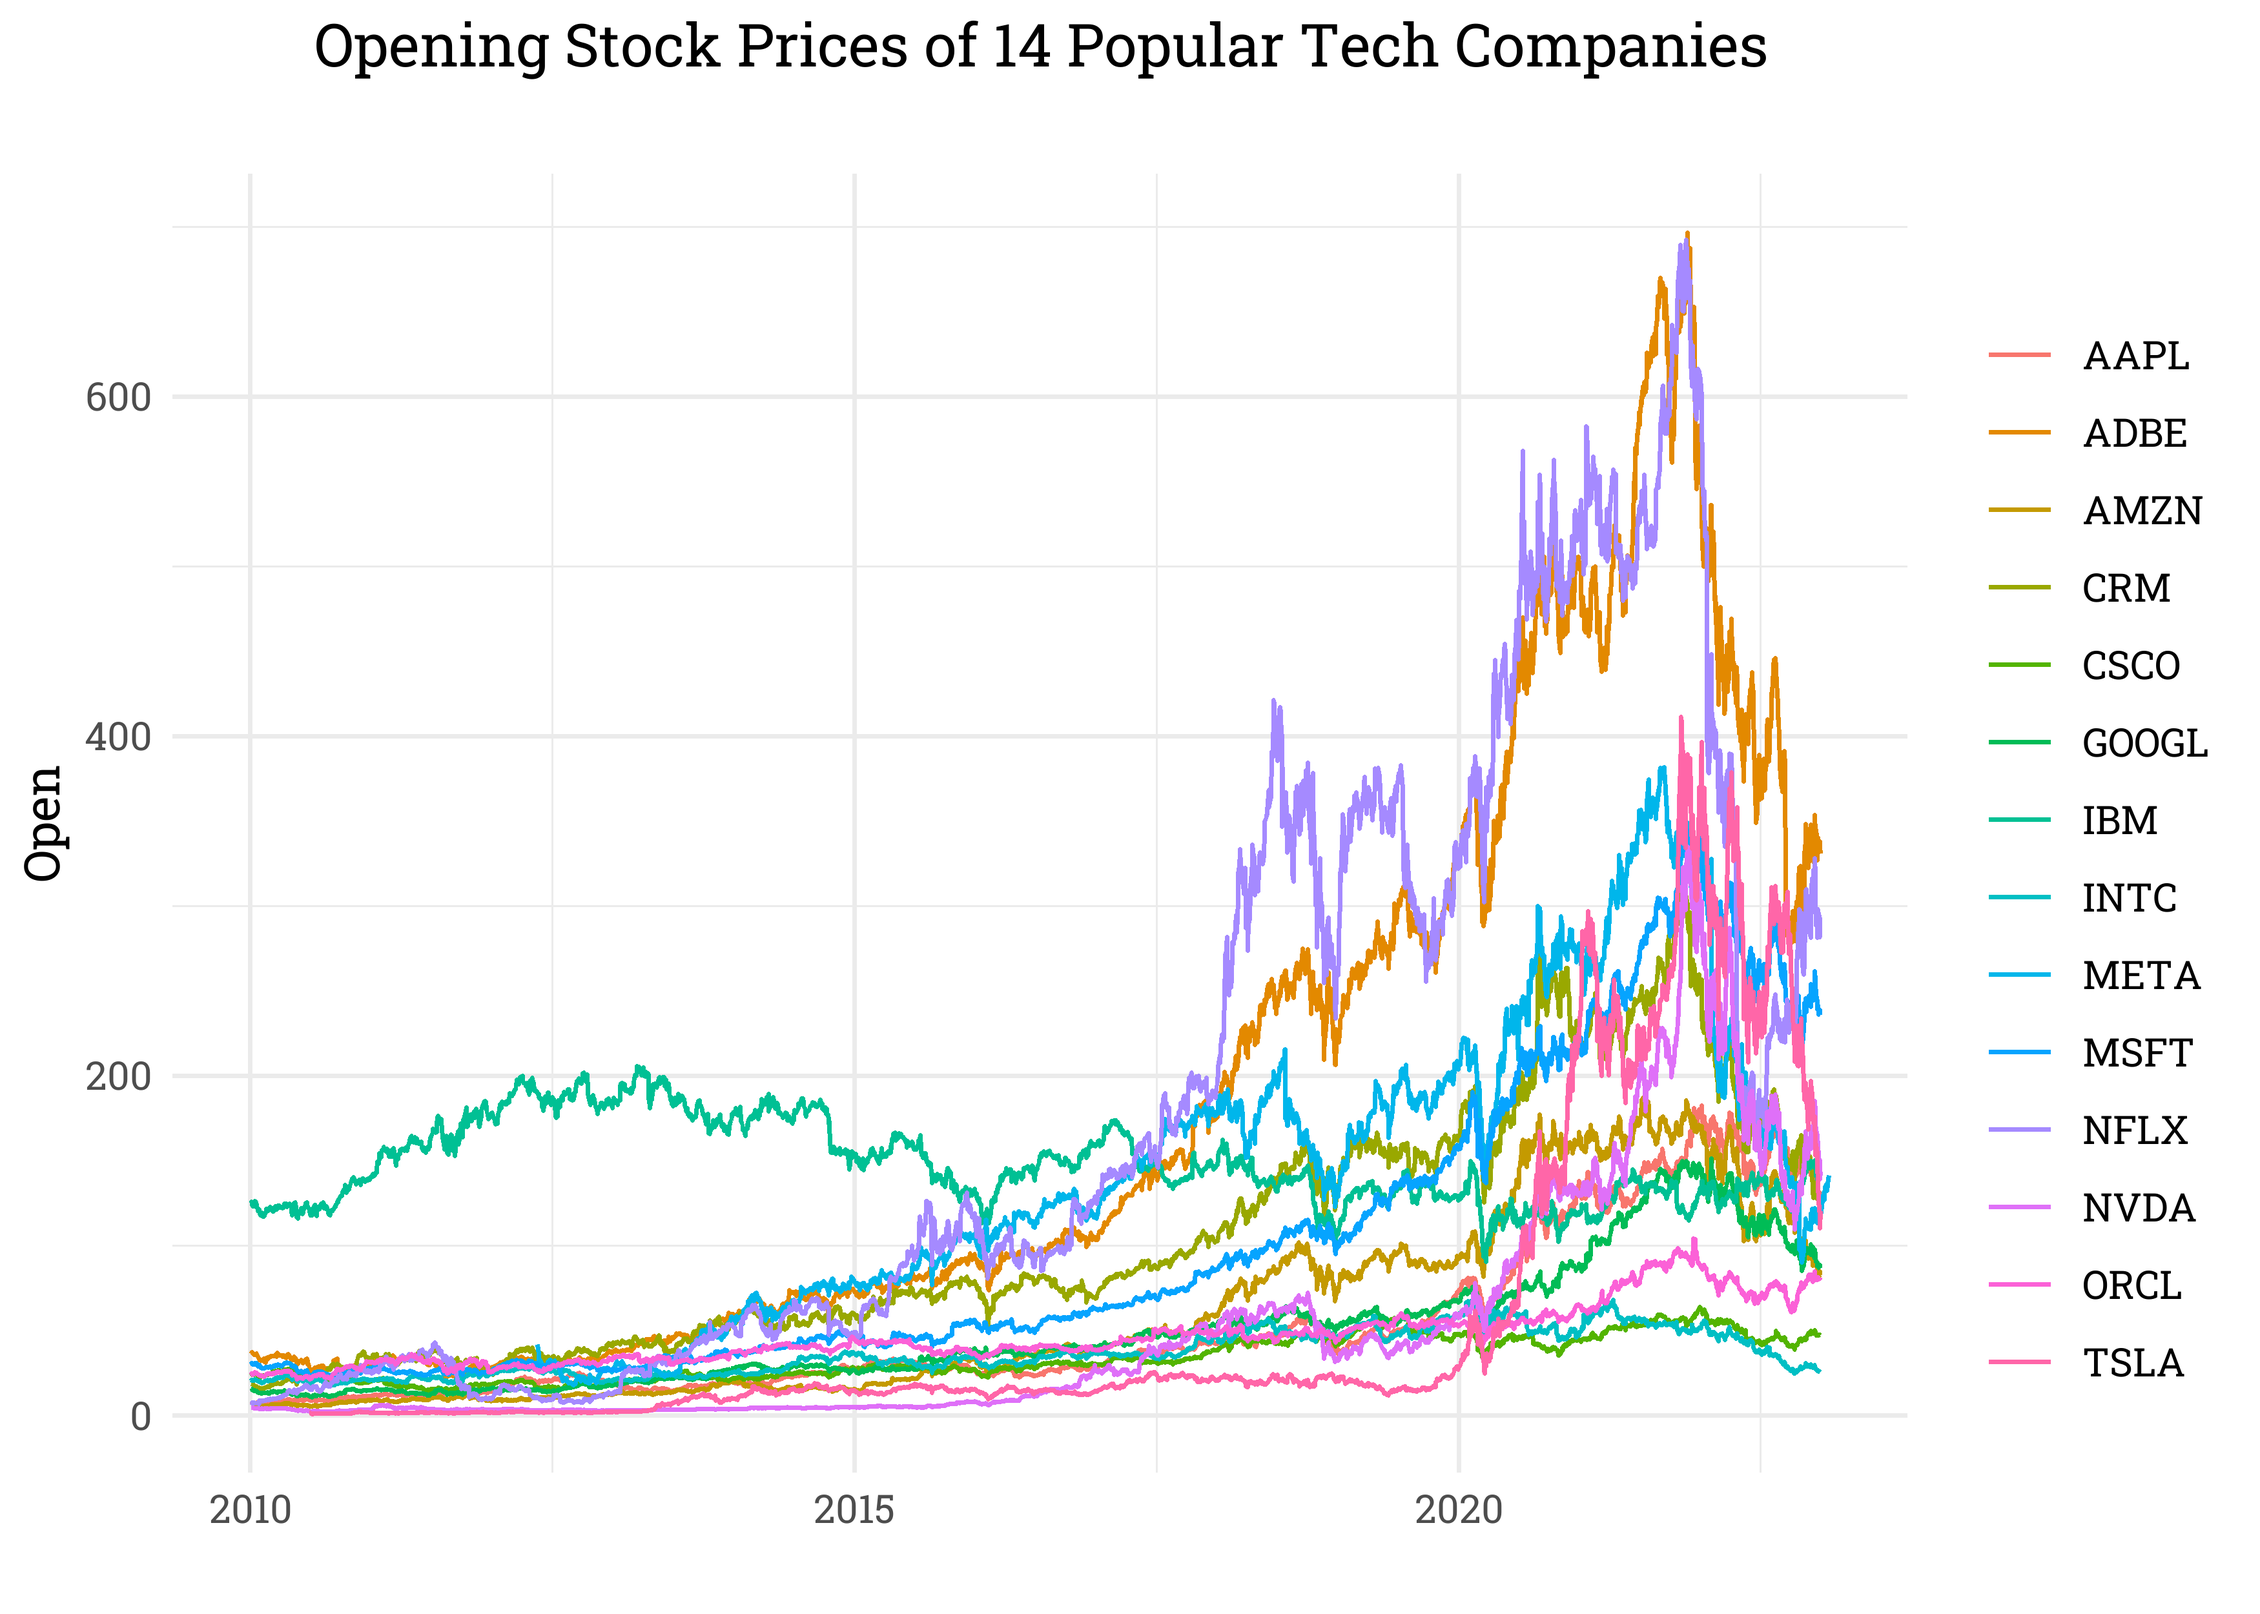
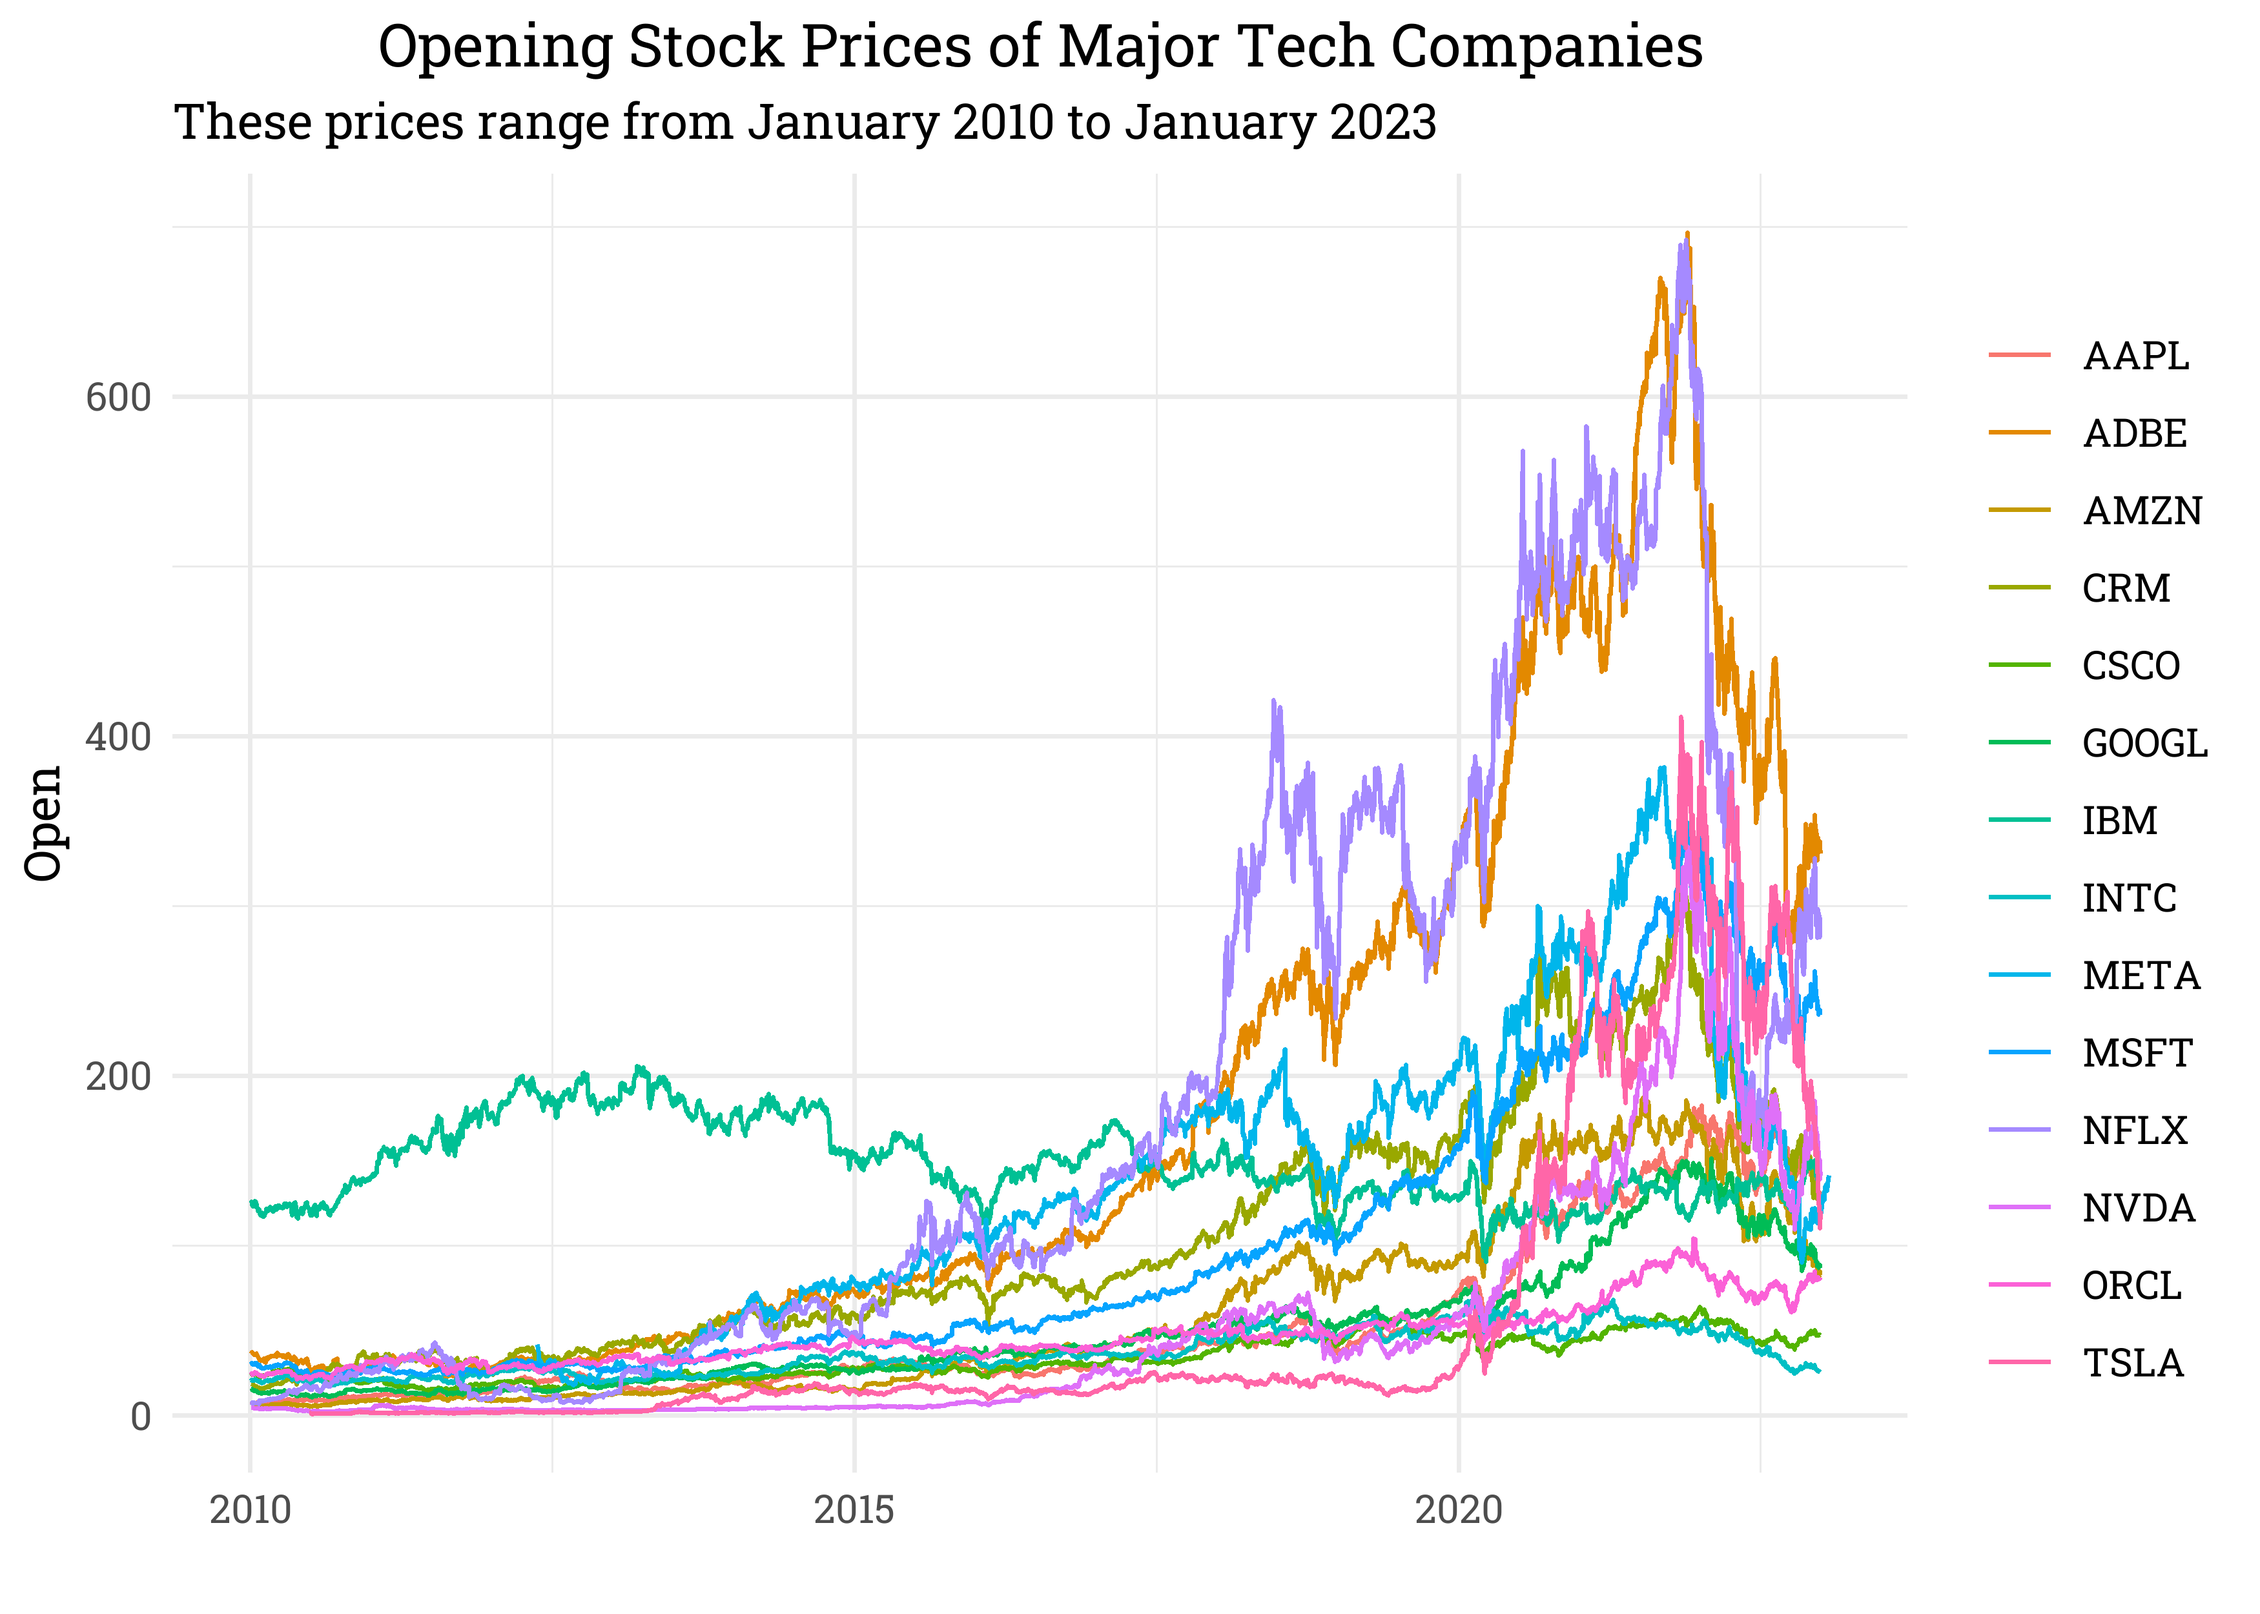
text changes and thanks to data source

Changed region(s): [[0.0623, 0.0, 0.7786, 0.0936]]

diff --git a/Tech Stock Prices/Tech-Stock-Prices.md b/Tech Stock Prices/Tech-Stock-Prices.md
@@ -7,6 +7,9 @@ Matthew
 - <a href="#exploratory-data-analysis"
   id="toc-exploratory-data-analysis">Exploratory Data Analysis</a>
 
+*Data from Evan Gower on
+[Kaggle](https://www.kaggle.com/datasets/evangower/big-tech-stock-prices?resource=download&select=TSLA.csv)*
+
 # Read Data
 
 ``` r
@@ -19,33 +22,10 @@ stocks <- read_csv(paste0("./Data/", files),
   rename_with(tolower)
 ```
 
-    ## Rows: 45088 Columns: 8
-    ## -- Column specification --------------------------------------------------------
-    ## Delimiter: ","
-    ## dbl  (6): Open, High, Low, Close, Adj Close, Volume
-    ## date (1): Date
-    ## 
-    ## i Use `spec()` to retrieve the full column specification for this data.
-    ## i Specify the column types or set `show_col_types = FALSE` to quiet this message.
-
-The code starts by creating a list of files in the directory
-**`"./Data"`** using the **`list.files`** function and storing it in the
-object **`files`**.
-
-Next, the **`read_csv`** function is used to read in each file in the
-**`files`** list and create a new dataframe called **`stocks`**. The
-**`paste0`** function is used to concatenate the path **`"./Data/"`**
-with each file name in the **`files`** list.
-
-The **`stocks`** dataframe is then processed further using the
-**`mutate`** function to modify the “name” column. The first call to
-**`gsub`** uses the **`gsub`** function to replace the string
-**`"./Data/"`** in the “name” column with an empty string. The second
-call to **`gsub`** uses the **`gsub`** function to remove the
-**`".csv"`** extension from each string in the “name” column.
-
-Finally, the modified “name” column is stored back in the **`stocks`**
-dataframe.
+I’m reading in a list of *csv* files from a directory and creating a
+dataframe from them. I’m then cleaning up the “name” column in the
+dataframe and storing the cleaned “name” column in the dataframe as the
+final output.
 
 # Exploratory Data Analysis
 
@@ -54,8 +34,8 @@ stocks %>%
   ggplot(aes(date, open)) +
   geom_line(aes(color = name)) +
   labs(x = "", y = "Open", color = "",
-       title = "Opening Stock Prices of 14 Popular Tech Companies",
-       subtitle = "")
+       title = "Opening Stock Prices of Major Tech Companies",
+       subtitle = "These prices range from January 2010 to January 2023")
 ```
 
 ![](Tech-Stock-Prices_files/figure-gfm/unnamed-chunk-2-1.png)<!-- -->
